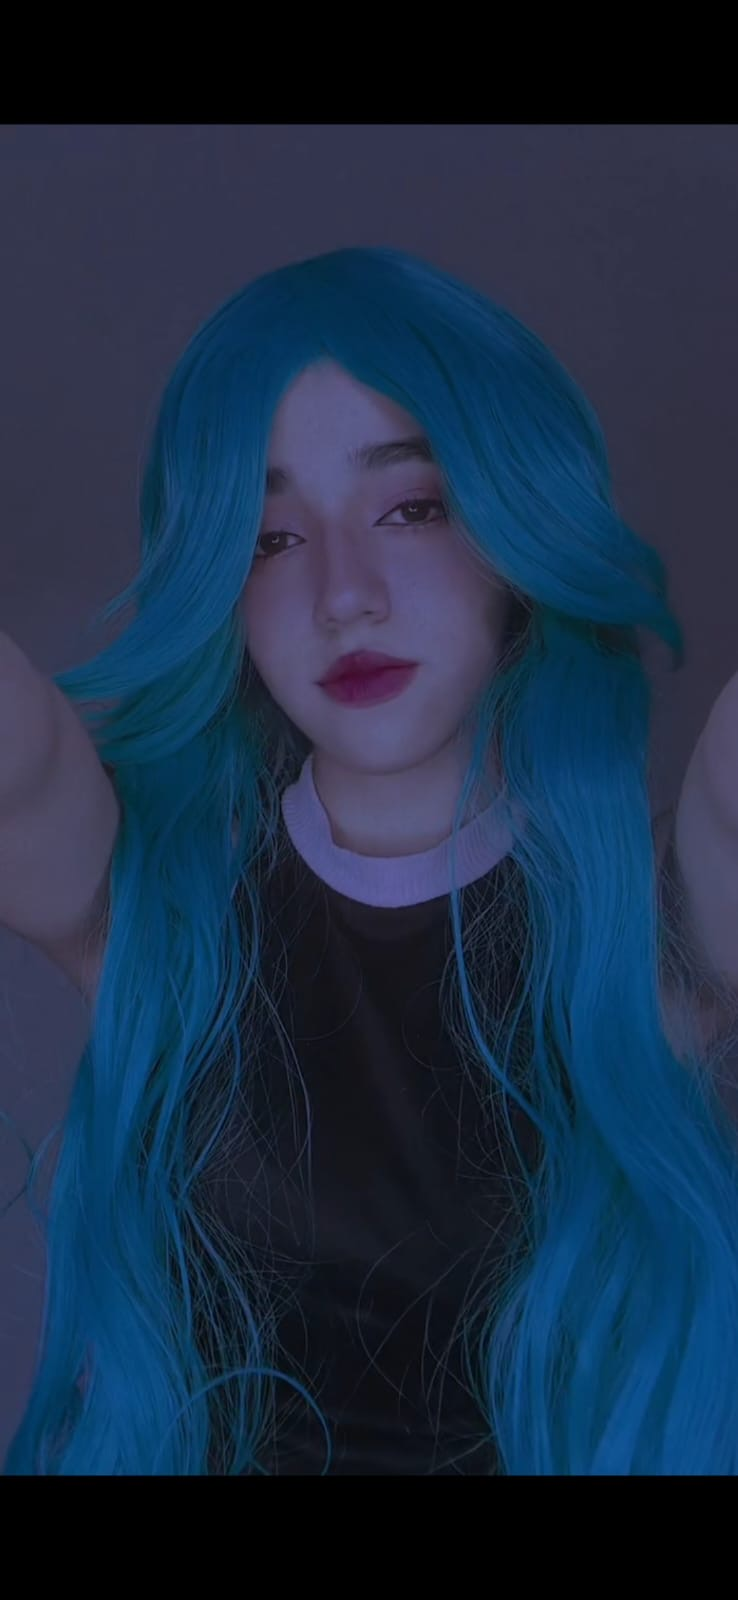
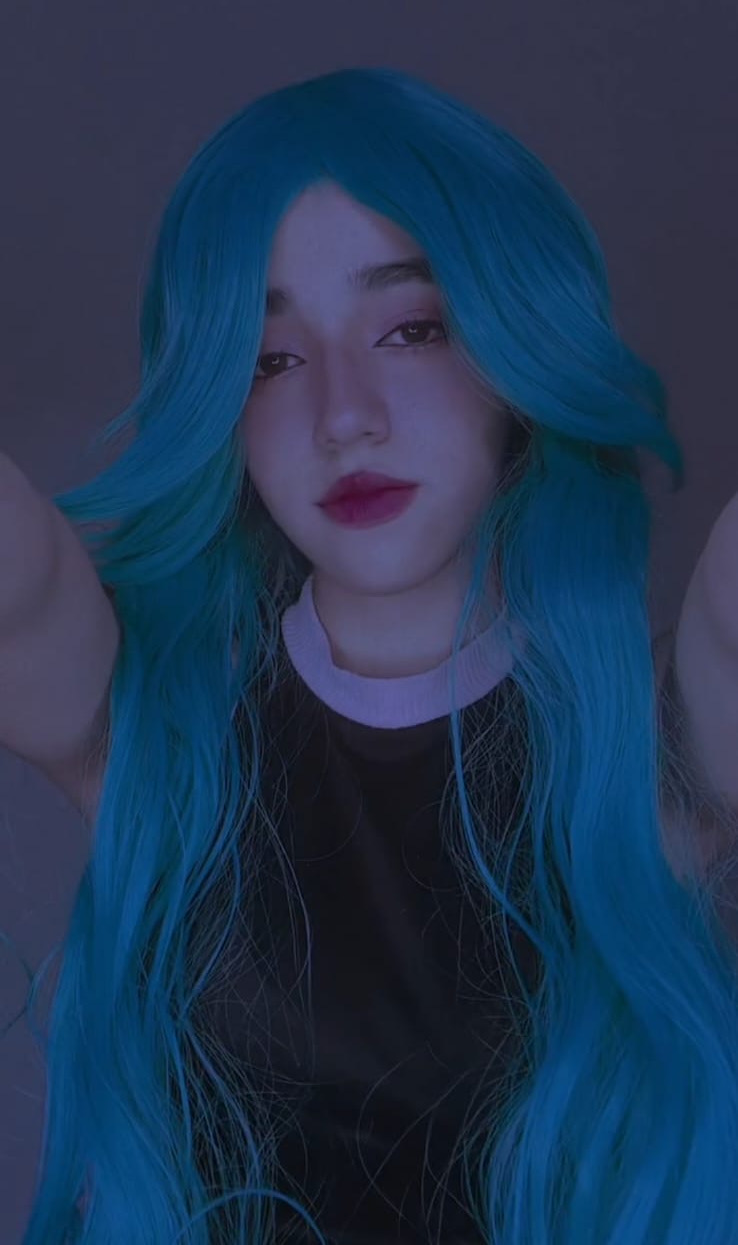
Actualizar cambios finales

diff --git a/index.html b/index.html
@@ -213,7 +213,7 @@
       <div class="eventgrid">
         <article class="event reveal-up" style="--delay: 0s">
           <div class="event-media">
-            <img src="images/Anicomic.jpg" alt="Convenciones - Anicomic" loading="lazy">
+            <img src="images/Anicomic.jpg" alt="Convenciones - Anicomic" loading="lazy" style="object-position: center 20%;">
           </div>
           <div class="event-info">
             <h3>Convenciones</h3>
@@ -223,7 +223,7 @@
 
         <article class="event reveal-up" style="--delay: 0.12s">
           <div class="event-media">
-            <img src="images/Sangwoo3.jpeg" alt="Sesión fotográfica de cosplay" loading="lazy">
+            <img src="images/Sangwoo3.jpeg" alt="Sesión fotográfica de cosplay" loading="lazy" style="object-position: center 20%;">
           </div>
           <div class="event-info">
             <h3>Sesiones fotográficas</h3>
@@ -233,7 +233,7 @@
 
         <article class="event reveal-up" style="--delay: 0.24s">
           <div class="event-media">
-            <img src="images/Ahri4.png" alt="Colaboraciones cosplay" loading="lazy">
+            <img src="images/Ahri4.png" alt="Colaboraciones cosplay" loading="lazy" style="object-position: center 20%;">
           </div>
           <div class="event-info">
             <h3>Colaboraciones</h3>
